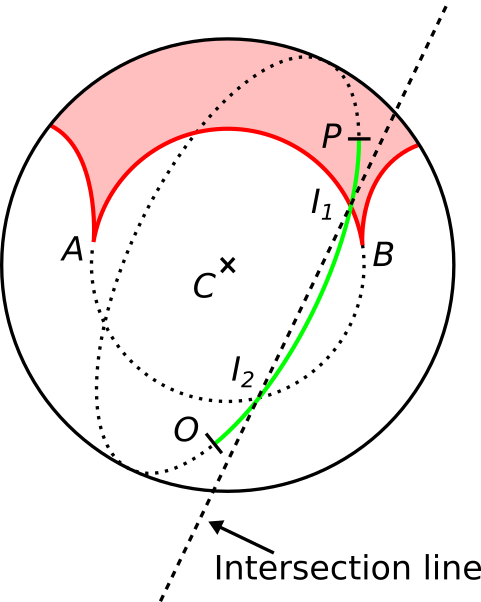
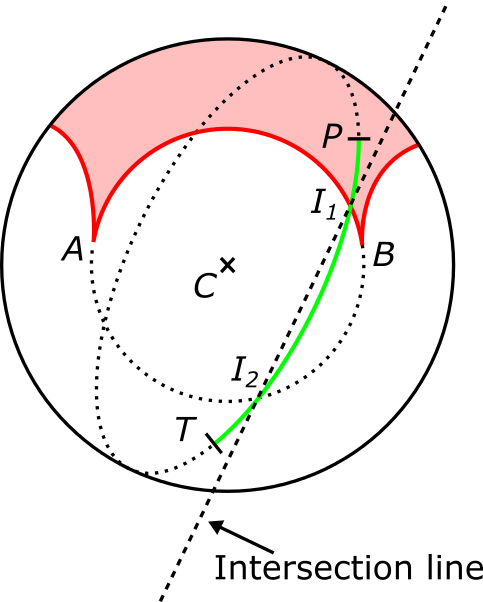
5 visualization corrected

diff --git a/pvis2016/part/visualization.tex b/pvis2016/part/visualization.tex
@@ -28,7 +28,7 @@ We employ this approach and, moreover, we compute these clipping planes for a to
 Additionally, we set normals of these clipping planes so that they are facing towards the toroidal patch and we define two types of clipping operations: \textit{AND} and \textit{OR}.
 We use these two operations to clip the patches whose angular length around the torus axis is either at most $\pi$ (\textit{AND}) or greater (\textit{OR}).
 The \textit{AND} and \textit{OR} operations are defined as their name suggests.
-The \textit{AND} operation leaves only fragments that appear on positive sides of both clipping planes, while the \textit{OR} operation leaves fragments that appear on the positive side of the first or the second clipping plane.
+The \textit{AND} operation leaves only fragments that appear on the positive sides of both clipping planes, while the \textit{OR} operation leaves fragments that appear on the positive side of the first or the second clipping plane.
 
 %and, moreover, we modify the data structure being used in the original algorithm to store and retrieve all spherical triangles incident to a torus (Fig.~\ref{fig:hashing}). In order to get all neighboring triangles for a torus, we hash the triangles by three keys; i.e., one for each torus which is connected to a triangle.
 %For this purpose, we implemented a simple hash table, which is based on linear addressing scheme \cite{alcantara2011efficient}.
@@ -42,16 +42,17 @@ The \textit{AND} operation leaves only fragments that appear on positive sides o
 %This allows us, to ray-cast toroidal patches directly instead of tori.
 
 
-Ray-casting the sphere is a trivial task; nevertheless, in our case the surface sphere of molecules might be formed by an arbitrary number of spherical patches lying in different surface components. To avoid obvious rendering issues, i.e., distinct coloring, transparency or visibility, we perform ray-casting of each spherical patch separately.
+Ray-casting the sphere is a trivial task; nevertheless, in our case the surface sphere of molecules might be formed by an arbitrary number of spherical patches lying in different surface components. To avoid obvious rendering issues, i.e., distinct coloring, transparency, or visibility, we perform ray-casting of each spherical patch separately.
 This allows us to visually distinguish between different surface components.
 
-Since the boundaries of a spherical patch are formed by small circle arcs, we apply an odd-even rule for polygons~\cite{shimrat1962algorithm} to test whether a point lies inside the patch. Firstly, we compute intersection points, $P_{front}$ and $P_{back}$, of a given ray with the patch sphere.
-Here, we describe the point-patch test for point $P_{front}=P$ only, since the same test is applied to $P_{back}$.
-Before we apply the odd-even rule, we choose a point $O$ lying outside the patch.
+Since the boundaries of a spherical patch are formed by small circle arcs, we apply an odd-even rule for polygons~\cite{shimrat1962algorithm} to test whether a point lies inside the patch. 
+First we compute the intersection points, $P_{front}$ and $P_{back}$, of a given ray with the patch sphere.
+Here we describe the point-patch test for point $P_{front}=P$ only, since the same test is applied to $P_{back}$.
+Before we apply the odd-even rule, we choose a point $T$ lying outside the patch.
 Then, we test line $OP$, the shortest path on a sphere, for an intersection with each of the arcs delimiting the patch.
 The intersection of a line $OP$ with the small circle arc, given by points $AB$, is computed in two steps (Fig.~\ref{fig:outer-point} left):
 \begin{enumerate}
-  \item Intersections of the circles containing the line and the arc, which can intersect in up to $2$ points.
+  \item Intersections of the circles containing the line and the arc, which can intersect in up to two points.
   \item Intersection points are tested whether they belong to both the segment $OP$ and the arc $AB$.
 \end{enumerate}
 Finally, if the sum of all intersections, i.e., for all the sides, is even then the point lies inside the patch.
@@ -76,10 +77,10 @@ Finally, if the sum of all intersections, i.e., for all the sides, is even then 
 \label{fig:outer-point}
 \end{figure}
 
-Since we deal with spherical patches and not the planar ones, the situation is bit more complex and we cannot choose point $O$ arbitrarily. 
+Since we deal with spherical patches and not the planar ones, the situation is bit more complex and we cannot choose point $T$ arbitrarily. 
 %Otherwise, we would count intersections of patch's sides with a great circle containing $P$.
 %Then, the intersection count would be the same regardless of $P$ being inside or outside the patch, making the rule inapplicable.
-Instead, we compute $O$ by intersecting a patch sphere by an axis of one of its delimiting tori.
+Instead, we compute $T$ by intersecting a patch sphere by an axis of one of its delimiting tori.
 In this way, we get two intersection points from which we choose the one that lies in the direction of the torus visibility sphere (Fig.~\ref{fig:outer-point} right).
 
 %\subsection{Ambient Occlusion Opacity Modulation}
@@ -99,7 +100,9 @@ In this way, we get two intersection points from which we choose the one that li
 %\end{figure}
 
 \subsection{Opacity modulation}
-After the intersection points were computed, we sort, in front-to-back manner, and store them in the linked list. Thus, for a given ray, we acquire a list of fragments $\{f_1,\ldots,f_n \}$, where each pair represents an entry and an exit point for the molecular surface. For simplicity, the values of $f$ represent depths of fragments. We denote the entire distance the ray passes through the molecule as $l=|f_1-f_n|$. 
+After the intersection points are computed, we sort them in a front-to-back manner and store them to the linked list. 
+Thus, for a given ray, we acquire a list of fragments $\{f_1,\ldots,f_n \}$, where each pair represents an entry and an exit point for the molecular surface. For simplicity, the values of $f$ represent the depths of fragments. 
+We denote the entire distance the ray passes through the molecule as $l=|f_1-f_n|$. 
 As we step along each fragment $f_i$, we define the opacity $\alpha_i$ of even fragments, i.e., those representing the entry surface points, as follows:
 \begin{equation}
   \alpha_i = O^{\phi(x)},
@@ -111,7 +114,7 @@ where $O$ represents a user defined parameter affecting the overall opacity and 
 	\label{eq:exponent}
 \end{equation}	
 where $K$ is the maximum value of the exponent and $x=|f_{i+1}-f_i|/l$ represents the ratio of the fragment interval to the entire length $l$. Note that if $x=1$, i.e., having just two fragments on the ray, then $\phi(x)=1$ determining the $\alpha_i=O$. The opacity of odd fragments, i.e., representing the exist surface points, is defined as $\alpha_i = O$, thus keeping them unmodulated since they are less prominent in the final image.
-Figure~\ref{fig:Oparam} showcases $4$ different combinations of parameters $K$ and $O$.
+Figure~\ref{fig:Oparam} showcases four different combinations of parameters $K$ and $O$.
 \begin{figure*}[htb]
   \centering
   \includegraphics[width=\textwidth]{image/Oparam.png}
@@ -120,14 +123,14 @@ Figure~\ref{fig:Oparam} showcases $4$ different combinations of parameters $K$ a
 \end{figure*}
 \subsection{Cavity area estimation}
 We enhance the visualization of cavities by coloring their surface by their approximate areas.
-To estimate the area, we sum areas of all triangles that form the cavity surface.
+To estimate the area, we sum the areas of all triangles that form the cavity surface.
 The area of a spherical triangle is calculated as follows:
 
 \begin{equation}
   S = r_{probe}^2 \left[ \left( A + B + C \right) - \pi \right],
 \end{equation}
 
-where $A$, $B$ and $C$ are angles of the triangle. 
+where $A$, $B$, and $C$ are angles of the triangle. 
 %We do the area computation in a GLSL compute shader which computes areas of individual triangles and sums them using atomics.
 Additionally, we neglect areas of spherical and toroidal patches since their influence on the exact cavity area is much smaller compared to triangles.
 %Therefore, the cavity area we compute is \textcolor{red}{underestimated -- maybe an equation?}.
